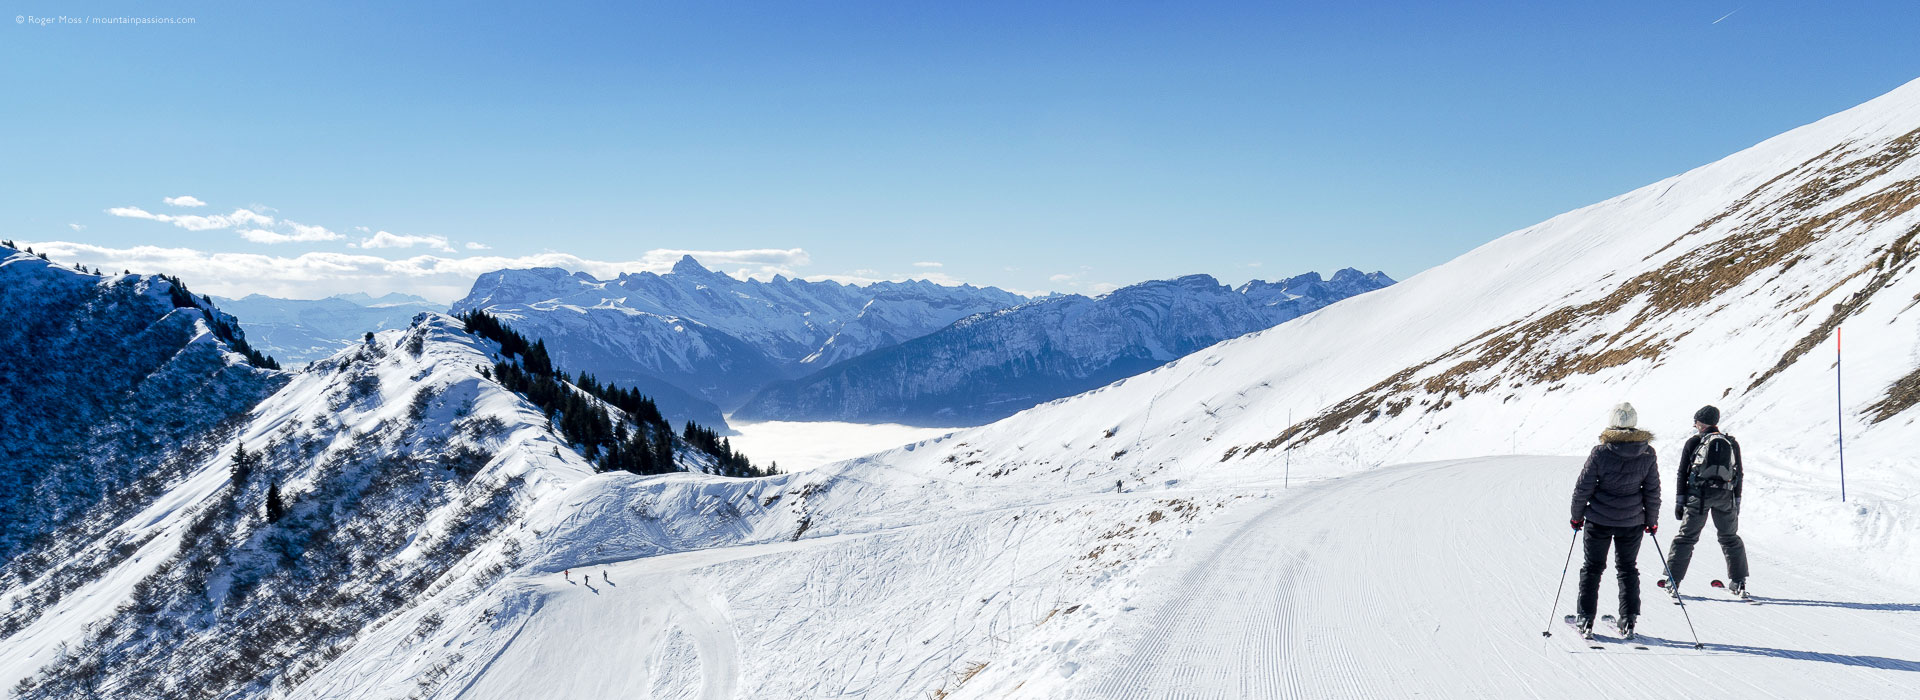
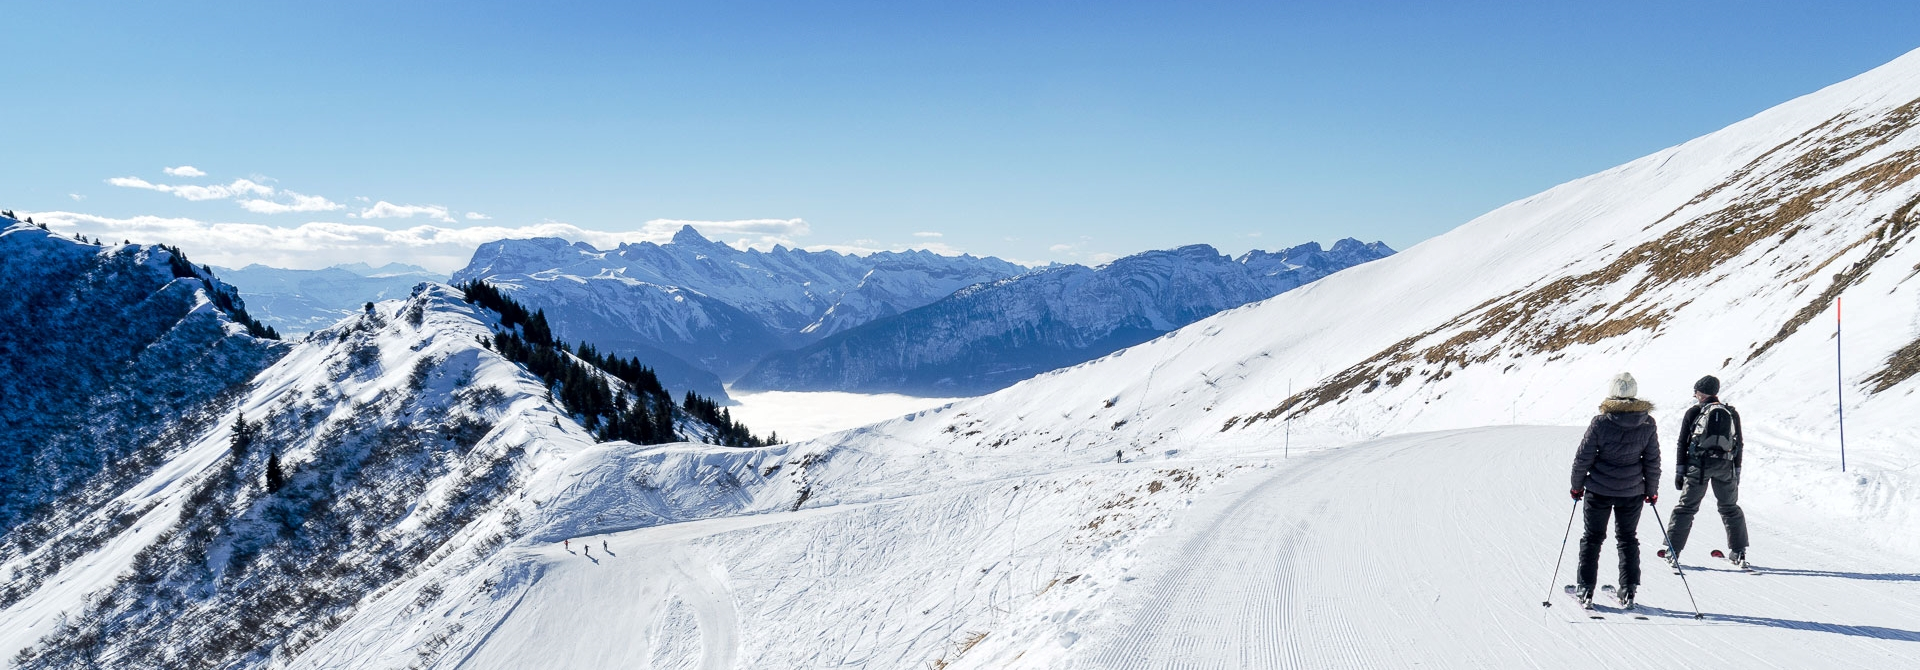
crop background image for better fit. add styling to the footer size the main content

Changed region(s): [[0.0, 0.0597, 1.0, 1.0], [0.9375, 0.5075, 1.0, 0.6269], [0.9688, 0.7164, 1.0, 0.7463]]

diff --git a/assets/css/style.css b/assets/css/style.css
@@ -4,17 +4,19 @@
 body{
     background-image:url("../images/background-mountain.jpg");
     background-repeat:no-repeat;
-    max-width:80%;
-    max-height:1200%;
-    background-size:contain;
-    overflow:hidden;
-    background-attachment:fixed;
+    max-width:100vw;
+    min-height:100vh;
+    background-size:cover;
+    overflow-x:hidden;
+    margin:0;
+    
+    
 }
 
 /*Styling for the header element and those elements nested within including the nav and h2 elements*/
 /*general styling for the nav bar*/
 #nav-logo{
-    background-color:white;
+    height:100px;
 }
 .nav-bar{
     margin:0;
@@ -56,13 +58,39 @@ body{
 
 /*Style for the <fieldset> containing the bulk of the content for the home page*/
 .content-box{
-    width:80%;
+    max-width:80%;
     margin-right:20%;
     margin-left:20%;
     float:none;
     background-color:aliceblue;
+    height:800px;
+    
 }
 
-#socials{
-    background-color:grey;
+
+
+
+#social-links{
+    height:fit-content;
+    width:100%;
+    margin-bottom:0;
+    margin-left:10px;
+    background-color:gray;
+}
+#social-links ul{
+    margin-top:0 auto;
+}
+#social-links li{
+    list-style-type:none;  
+    margin-right:30px;
+    font-size:120%;
+    font-family:kanit, sans-serif;
+    padding:4px;
+    margin-left:12.5%;
+    display:inline;
+    padding-left:10px;
+}
+#social-links a{
+    color:white;
+    text-decoration:none;
 }

diff --git a/index.html b/index.html
@@ -13,7 +13,7 @@
 <body>
     <!--The header element simply contains the webite title/logo as well as the navigation links to allow users to go between pages on the site.-->
     <header id="nav-logo">
-        <!--The Navigation linkd-->
+        <!--The Navigation links-->
         <nav class="nav-bar">
             <ul>
                 <li class="active"><a href="#">Home</a></li>
@@ -58,13 +58,14 @@
             <p>Video will be placed here</p>
         </section>
     </fieldset>
+    
 
-    <footer id="socials">
+    <footer id="social-links">
         <ul>
-            <li>Facebook</li>
-            <li>instagram</li>
-            <li>twitter</li>
-            <li>youtube</li>
+            <li><a href="#">Facebook</a></li>
+            <li><a href="#">instagram</a></li>
+            <li><a href="#">twitter</a></li>
+            <li><a href="#">youtube</a></li>
         </ul>
     </footer>
     
